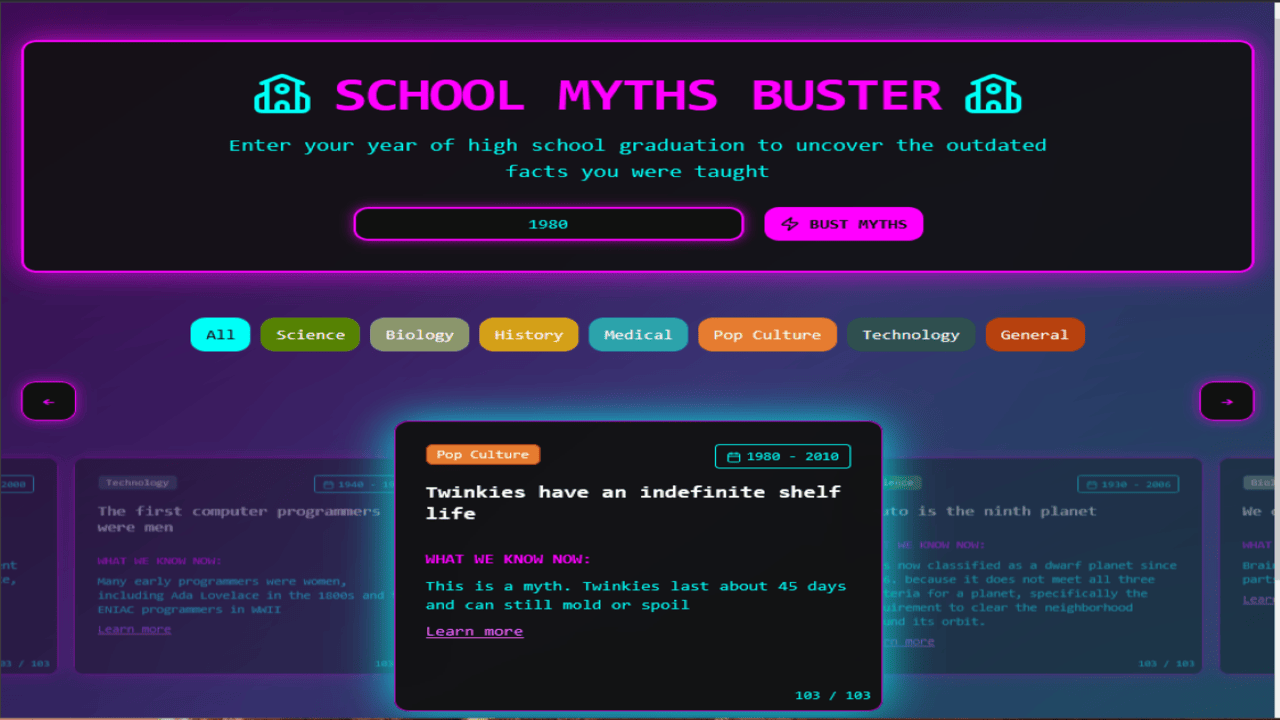
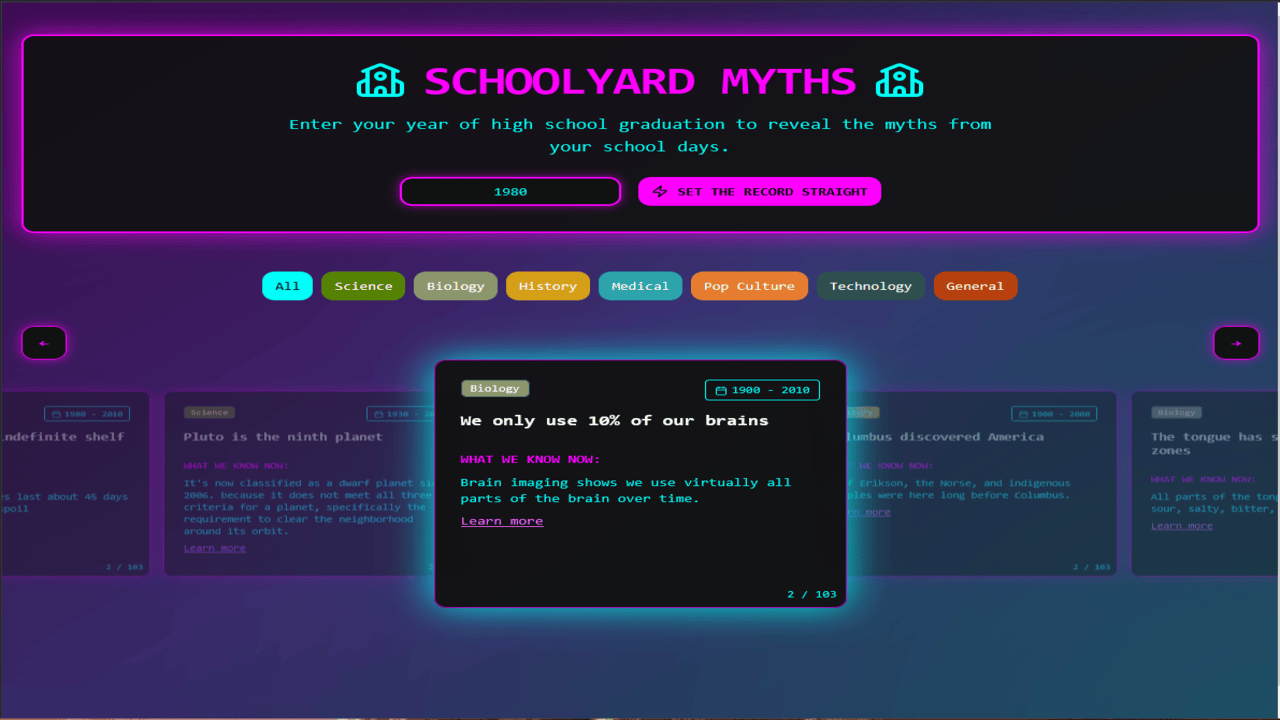
updated name

diff --git a/portfolio/src/components/ProjectsSection.js b/portfolio/src/components/ProjectsSection.js
@@ -29,7 +29,7 @@ const PastProjects = () => {
       icon: <GiAirplaneDeparture className="inline ml-1" />,
     },
     {
-      title: "School Myths Buster",
+      title: "Schoolyard Myths",
       img: schoolMythsBuster,
       description:
         "Enter your graduation year and uncover the surprising myths you once believed in school, and see what’s changed today.",
